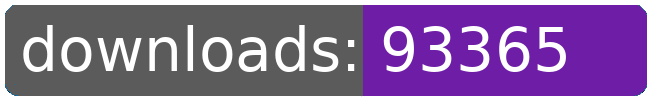
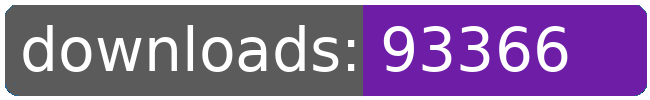
dl log written

Changed region(s): [[0.8, 0.42, 0.8923, 0.72], [0.8308, 0.24, 0.8923, 0.36]]

diff --git a/README.md b/README.md
@@ -21,8 +21,8 @@
 		<td>6609</td>
 		<td>6634</td>
 		<td>6648</td>
-		<td>6661</td>
-		<td>+ 13</td>
+		<td>6662</td>
+		<td>+ 14</td>
 	</tr>
 	<tr>
 		<td>aberrant.kahet.outfitter</td>
@@ -274,8 +274,8 @@
 		<td></td>
 		<td></td>
 		<td></td>
-		<td>93365</td>
-		<td>289</td>
+		<td>93366</td>
+		<td>290</td>
 	</tr>
 </table>
 </sub></sup>
@@ -300,8 +300,8 @@
 		<td>6609</td>
 		<td>6634</td>
 		<td>6648</td>
-		<td>6661</td>
-		<td>+ 13</td>
+		<td>6662</td>
+		<td>+ 14</td>
 	</tr>
 	<tr>
 		<td>aberrant.kahet.outfitter</td>
@@ -553,8 +553,8 @@
 		<td></td>
 		<td></td>
 		<td></td>
-		<td>93365</td>
-		<td>289</td>
+		<td>93366</td>
+		<td>290</td>
 	</tr>
 </table>
 </sub></sup>